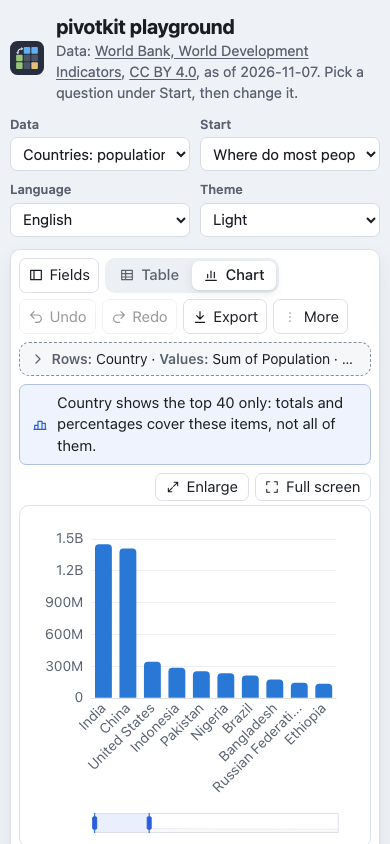
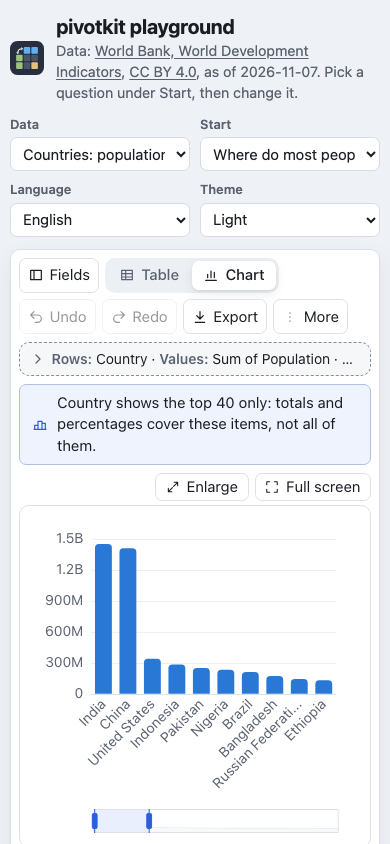
docs(charts): the zoom screenshot with the 24 px slider; sizes of this round
Refs #36

diff --git a/packages/pivotkit-element/build.js b/packages/pivotkit-element/build.js
@@ -283,10 +283,11 @@ answers checked, a plugin's minimal table completed, failed sheets, the host's e
  * and pluralForm shared with pivotkit-core (#547): report 23.0 with Homebrew's zlib (22.8 before);
  * with #478's writer 23.3, at that budget: report goes to 23.5.
  * The zoom slider, the legend toggle and 100 % stacks (#36): ECharts' slider component (dataZoom)
- * takes the chart group to 230.3 with Homebrew's zlib (221.5 before): chart goes to 231.5. The
- * Display settings' zoom, 100 % switch and series list take menus to 48.0 (47.6 before) and the German
- * menu texts to 7.1 (7.0): menus goes to 48.5, texts to 7.5. The first load grows 0.5 (the view keys
- * and the legend's announcement), within its budget.
+ * takes the chart group to 231.1 with Homebrew's zlib (221.5 before): chart goes to 231.5. The
+ * Display settings' zoom, 100 % switch with its explanation and series list take menus to 48.4 (47.6
+ * before) and the German menu texts to 7.2 (7.0): menus goes to 48.5, texts to 7.5. The first load
+ * grows 0.7 to 174.45 (the view keys, a view file's newer keys, the legend's announcement); the zoom
+ * and legend logic stays in the chart group (chart-legend.js).
  * `--size` fails above it; raise it on purpose, with the reason in the commit.
  */
 export const SIZE_BUDGET_KIB = { initial: 175.1, chart: 231.5, export: 12.6, link: 7.5, menus: 48.5, texts: 7.5, unused: 5.5, import: 22, report: 23.5, template: 3 };

diff --git a/docs/reference/element.md b/docs/reference/element.md
@@ -556,10 +556,10 @@ CI runs the same command on Node 24 and measures the same numbers. It fails when
 | Loaded | Files | Size | gzip |
 | --- | ---: | ---: | ---: |
 | First (`index.js` and its static imports: React, ReactDOM, pivotkit-react, pivotkit-core, @dnd-kit, styles) | 11 | 529 KiB | 173 KiB |
-| On the first chart (ECharts with bar, line, pie (also the donut), heatmap, the components they use, the title and the zoom slider among them, the canvas renderer, pivotkit-core's ECharts option and the layout of the chart's labels) | 2 | 672 KiB | 230 KiB |
+| On the first chart (ECharts with bar, line, pie (also the donut), heatmap, the components they use, the title and the zoom slider among them, the canvas renderer, pivotkit-core's ECharts option and the layout of the chart's labels) | 3 | 674 KiB | 231 KiB |
 | On the first export or copy (pivotkit-core's export, and fflate as a chunk it shares with the link; the Export menu and the drill-down's start loading it when they open) | 3 | 28 KiB | 12 KiB |
 | On the first shared link, Copy link or loaded link (pivotkit-core's link with fflate) | 2 | 15 KiB | 7 KiB |
-| Right after the first render (the menus' panels with their levels, the Filter level with its summary, quick choices, items and rules, the Export menu, the drill-down's panel and its table, sharing's copy, download and load, and the English texts only they show) | 2 | 147 KiB | 48 KiB |
+| Right after the first render (the menus' panels with their levels, the Filter level with its summary, quick choices, items and rules, the Export menu, the drill-down's panel and its table, sharing's copy, download and load, and the English texts only they show) | 3 | 148 KiB | 48 KiB |
 | With the menus, for a German report only (the menus' German texts) | 1 | 20 KiB | 7 KiB |
 | When a view has unused parts (their plain words: English, and German for a German report) | 2 | 16 KiB | 5 KiB |
 | With `allow-import`, on the first use of the Data menu, a drop or the empty report's Load data… (the import UI with its English and German texts, pivotkit-core's readers) | 6 | 54 KiB | 22 KiB |

diff --git a/docs/compare.md b/docs/compare.md
@@ -125,7 +125,7 @@ project's own docs name.
 - **Size**: PivotTable.js's core is 6.3 KB gzip by its README, without charts. Graphic Walker's FAQ
   names about 1.5 MB minified, roughly 400 KB gzip, with Vega-Lite. pivotkit's web component loads:
     - first: about 173 KiB gzip, with React inside
-    - on the first chart: the chart's code, about 230 KiB gzip, ECharts with it
+    - on the first chart: the chart's code, about 231 KiB gzip, ECharts with it
 
     Measured with `npm run size -w pivotkit-element` on 2026-11-17. See
     [bundle size](reference/element.md#bundle-size).
